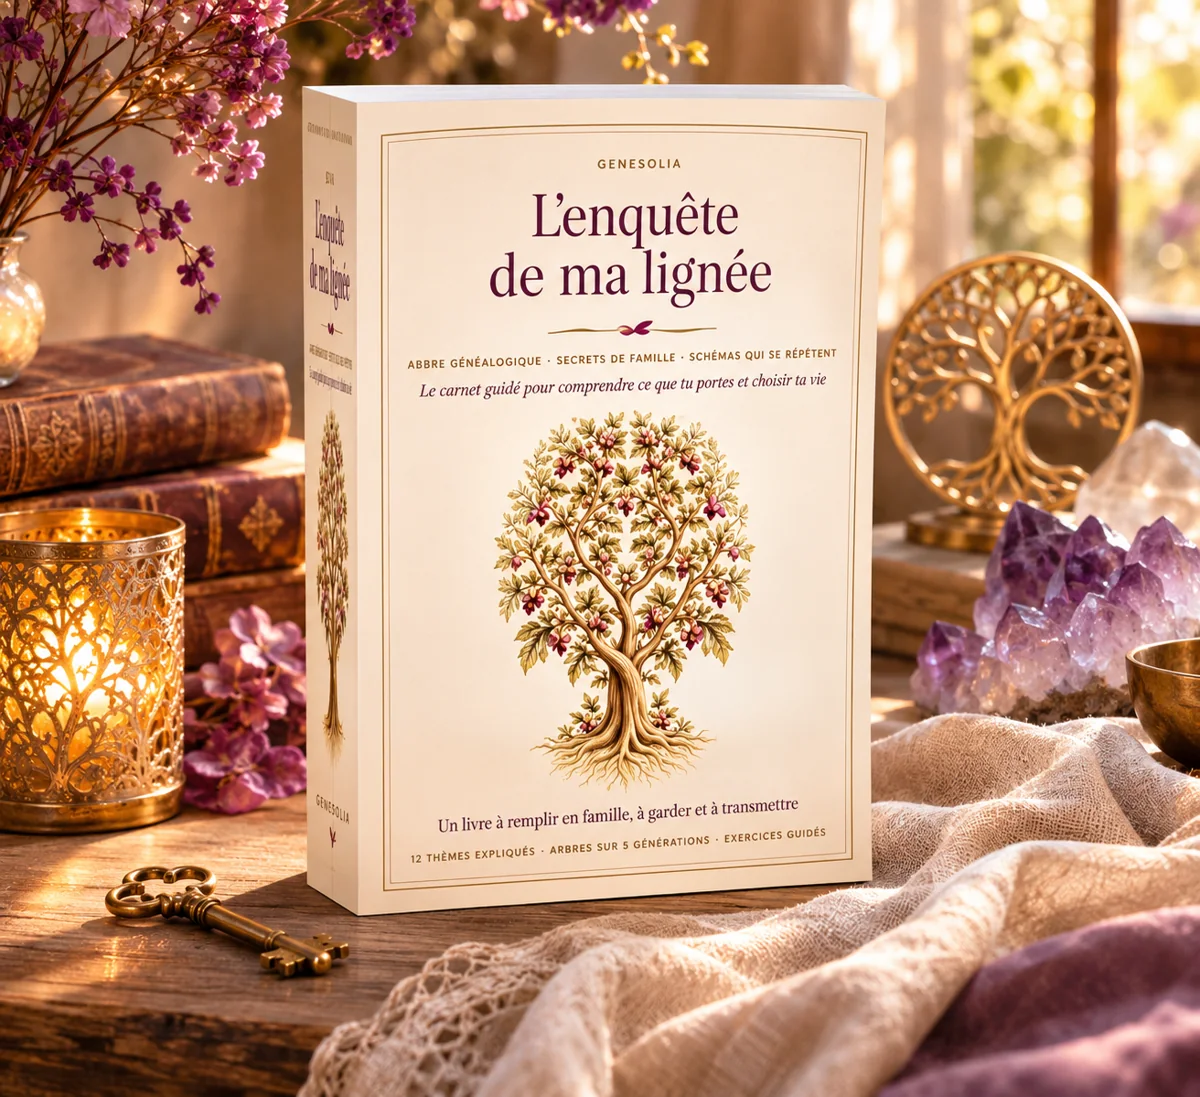
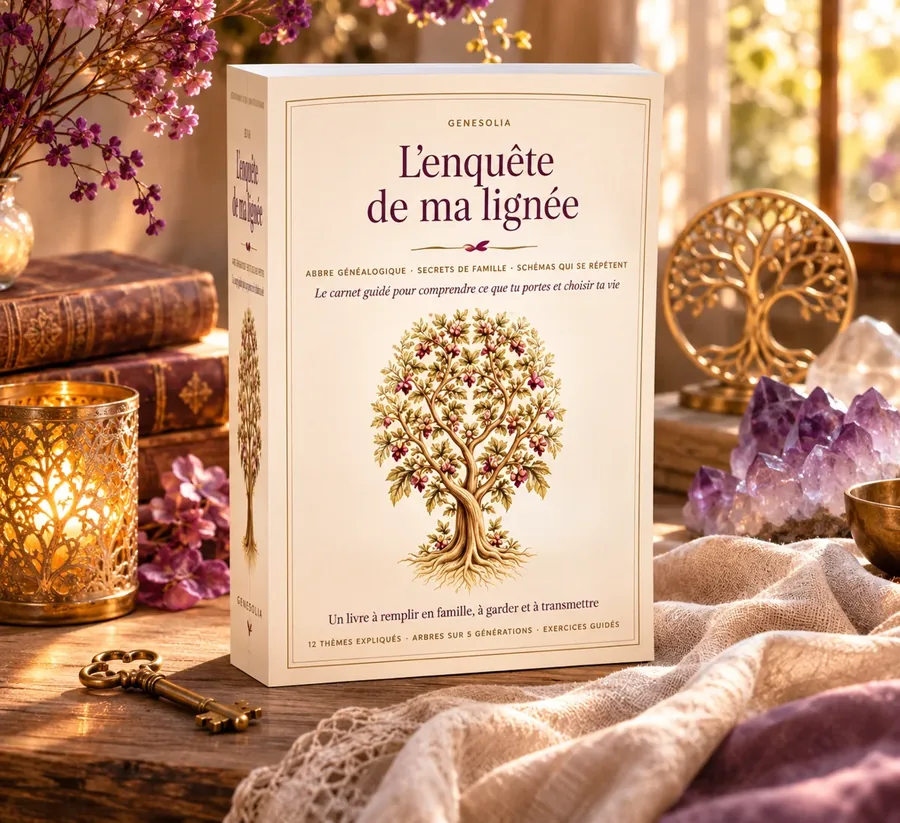
Redimensionne les couvertures de livres (900px au lieu de 1200px) pour alléger la page

diff --git a/livres.html b/livres.html
@@ -48,7 +48,7 @@
     <section class="bloc"><div class="conteneur">
       <div class="lvs-grille">
         <article class="lvs-livre">
-          <a href="enquete-de-ma-lignee.html"><img src="assets/livres/enquete-scene.webp" width="1200" height="1097" alt="Le livre L’enquête de ma lignée posé sur une table, près d’une bougie"></a>
+          <a href="enquete-de-ma-lignee.html"><img src="assets/livres/enquete-scene.webp" width="900" height="823" alt="Le livre L’enquête de ma lignée posé sur une table, près d’une bougie"></a>
           <div>
             <p class="lvs-pour">À remplir en famille</p>
             <h2>L’enquête de ma lignée</h2>
@@ -63,7 +63,7 @@
           </div>
         </article>
         <article class="lvs-livre">
-          <a href="racines.html"><img src="assets/livres/racines-scene.webp" width="1200" height="900" alt="Le livre Racines, Le Cercle livre 1, posé sur une table, près d’une bougie"></a>
+          <a href="racines.html"><img src="assets/livres/racines-scene.webp" width="900" height="675" alt="Le livre Racines, Le Cercle livre 1, posé sur une table, près d’une bougie"></a>
           <div>
             <p class="lvs-pour">Le Cercle · livre 1</p>
             <h2>Racines</h2>
